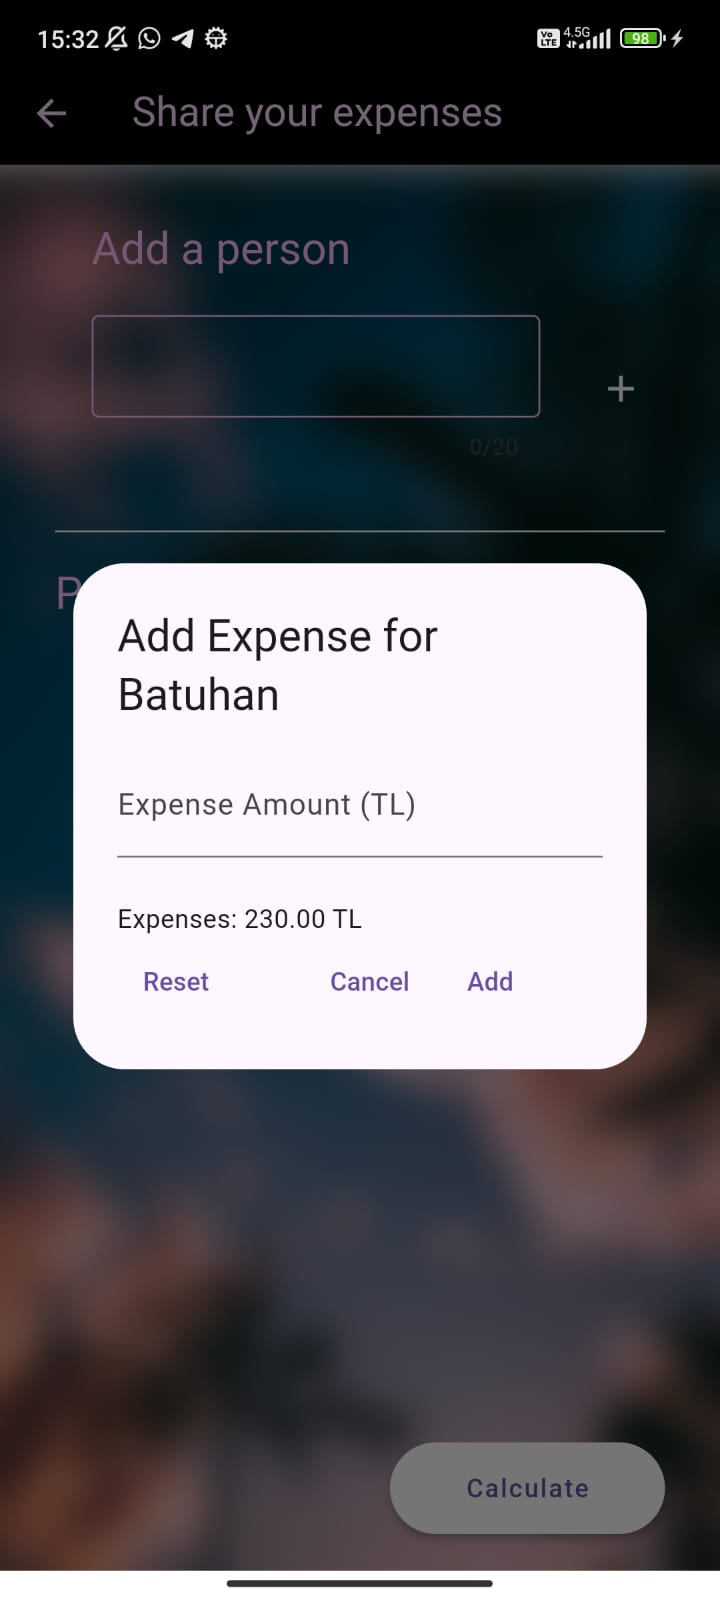
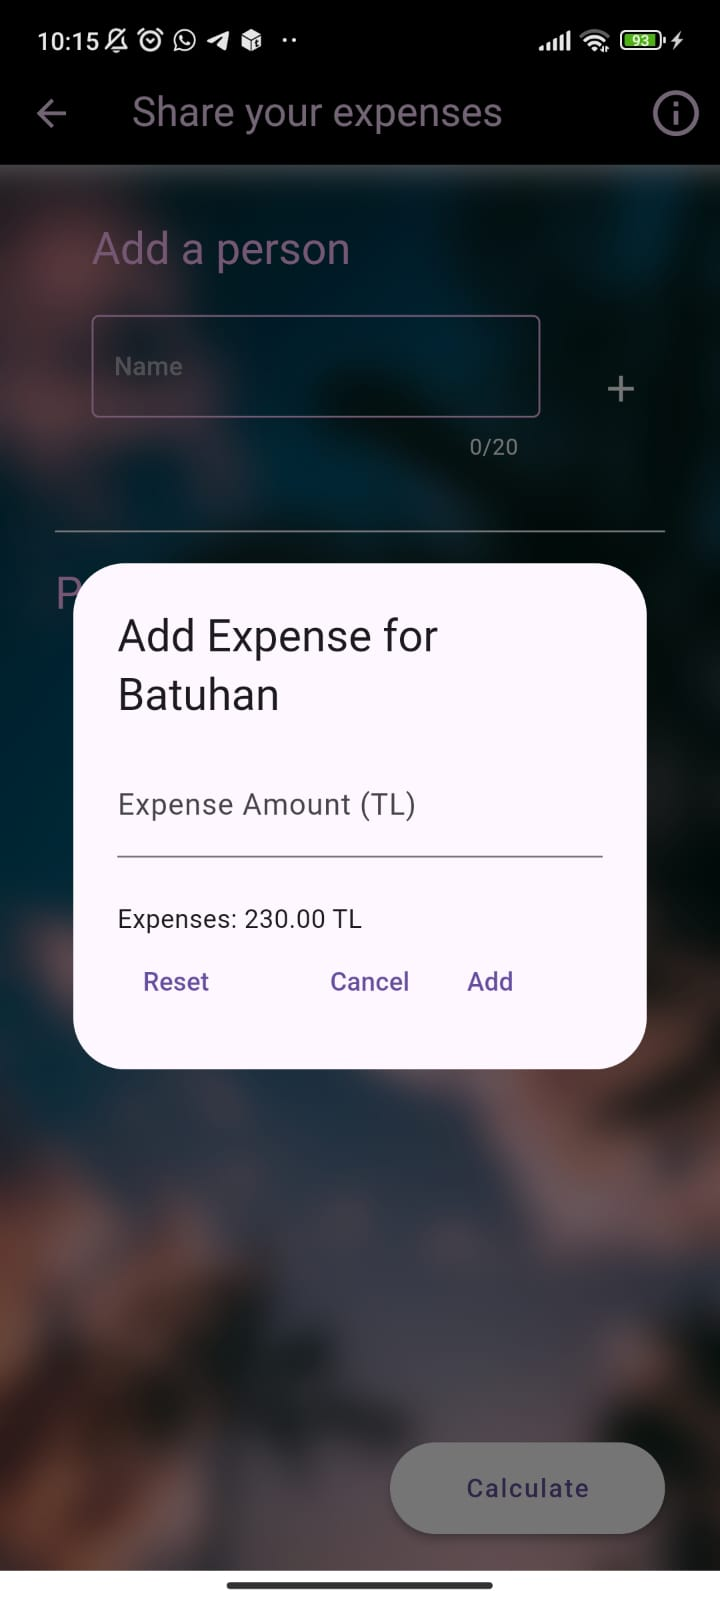
information_added

diff --git a/lib/core/info_button.dart b/lib/core/info_button.dart
@@ -1,0 +1,63 @@
+import 'package:flutter/material.dart';
+import 'package:flutter_application_1/core/all_colors.dart';
+import 'package:flutter_application_1/core/all_strings.dart';
+import 'package:flutter_application_1/core/padding_settings.dart';
+
+class InfoButton extends StatelessWidget {
+  const InfoButton({super.key});
+
+  @override
+  Widget build(BuildContext context) {
+    return IconButton(
+      icon: Icon(
+        Icons.info_outline,
+        color: firstPageColors().fpAppBarColor,
+        size: 30,
+      ),
+      onPressed: () {
+        showDialog(
+          context: context,
+          builder: (BuildContext context) {
+            return AlertDialog(
+              title: Text(
+                InfoButtonStrings().infoTitle,
+                style: Theme.of(context)
+                    .textTheme
+                    .titleLarge
+                    ?.copyWith(fontWeight: FontWeight.bold, color: SecondPageColors().calculatedTitleColor),
+              ),
+              content: Column(
+                mainAxisSize: MainAxisSize.min,
+                crossAxisAlignment: CrossAxisAlignment.start,
+                children: [
+                  Text(
+                    InfoButtonStrings().infoSubtitle,
+                    style:
+                        Theme.of(context).textTheme.bodyLarge?.copyWith(color: SecondPageColors().totalExpensesColor),
+                  ),
+                  const SizedBox(height: 20),
+                  Padding(
+                    padding: AllPadings().horizontalPadding,
+                    child: Text(InfoButtonStrings().informationString),
+                  ),
+                ],
+              ),
+              actions: [
+                TextButton(
+                    onPressed: () {
+                      Navigator.of(context).pop();
+                    },
+                    child: Text(InfoButtonStrings().infoOK))
+              ],
+              shape: RoundedRectangleBorder(
+                borderRadius: BorderRadius.circular(15),
+              ),
+              backgroundColor: Colors.white,
+              elevation: 10,
+            );
+          },
+        );
+      },
+    );
+  }
+}

diff --git a/lib/firstpage.dart b/lib/firstpage.dart
@@ -2,6 +2,7 @@ import 'package:flutter/material.dart';
 import 'package:flutter_application_1/core/all_colors.dart';
 import 'package:flutter_application_1/core/all_pics.dart';
 import 'package:flutter_application_1/core/all_strings.dart';
+import 'package:flutter_application_1/core/info_button.dart';
 import 'package:flutter_application_1/core/padding_settings.dart';
 import 'package:flutter_application_1/core/themes/general_button.dart';
 import 'package:flutter_application_1/core/themes/textField_theme.dart';
@@ -25,6 +26,7 @@ class _MainWidgetState extends State<FirstPageWidget> {
     return Scaffold(
         backgroundColor: firstPageColors().fpBGColor,
         appBar: AppBar(
+          actions: const [InfoButton()],
           title: Text(FirstPageStrings().firstAppBar),
         ),
         body: Container(

diff --git a/lib/secondpage.dart b/lib/secondpage.dart
@@ -4,6 +4,7 @@ import 'package:flutter/material.dart';
 import 'package:flutter_application_1/core/all_colors.dart';
 import 'package:flutter_application_1/core/all_pics.dart';
 import 'package:flutter_application_1/core/all_strings.dart';
+import 'package:flutter_application_1/core/info_button.dart';
 import 'package:flutter_application_1/core/padding_settings.dart';
 import 'package:flutter_application_1/core/themes/general_button.dart';
 import 'package:flutter_application_1/core/themes/textField_theme.dart';
@@ -116,6 +117,7 @@ class _SecondPageWidgetState extends State<SecondPageWidget> {
     return Scaffold(
       appBar: AppBar(
         title: Text(FirstPageStrings().firstAppBar),
+        actions: const [InfoButton()],
       ),
       body: Stack(
         children: [

diff --git a/lib/core/all_strings.dart b/lib/core/all_strings.dart
@@ -20,3 +20,11 @@ class SecondPageStrings {
   final calculateButtonTitle = 'Calculate';
   final calculatedTitle = 'Calculated Screen';
 }
+
+class InfoButtonStrings {
+  final infoTitle = 'Share your expenses';
+  final infoSubtitle = 'Information';
+  final informationString =
+      'With this app, you can easily track everyone’s spending during your event.\nAt the end of the day, you’ll see who owes whom and how much.\n\nSimplify your group expenses and focus on having a great time!';
+  final infoOK = 'OK';
+}
